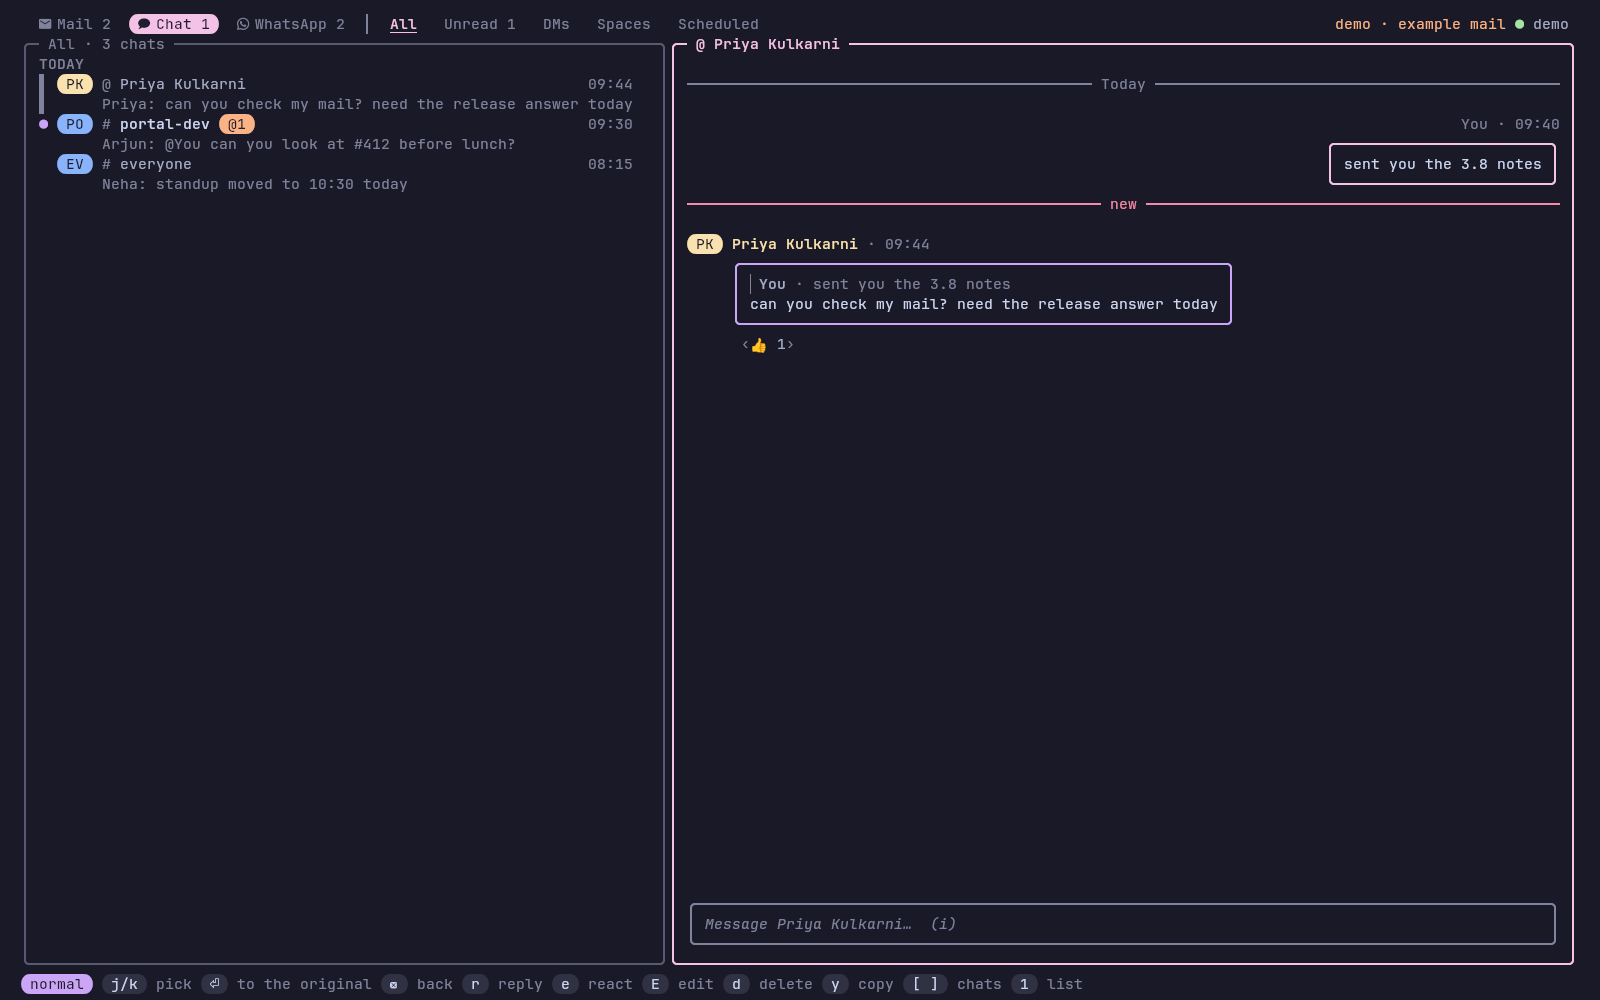
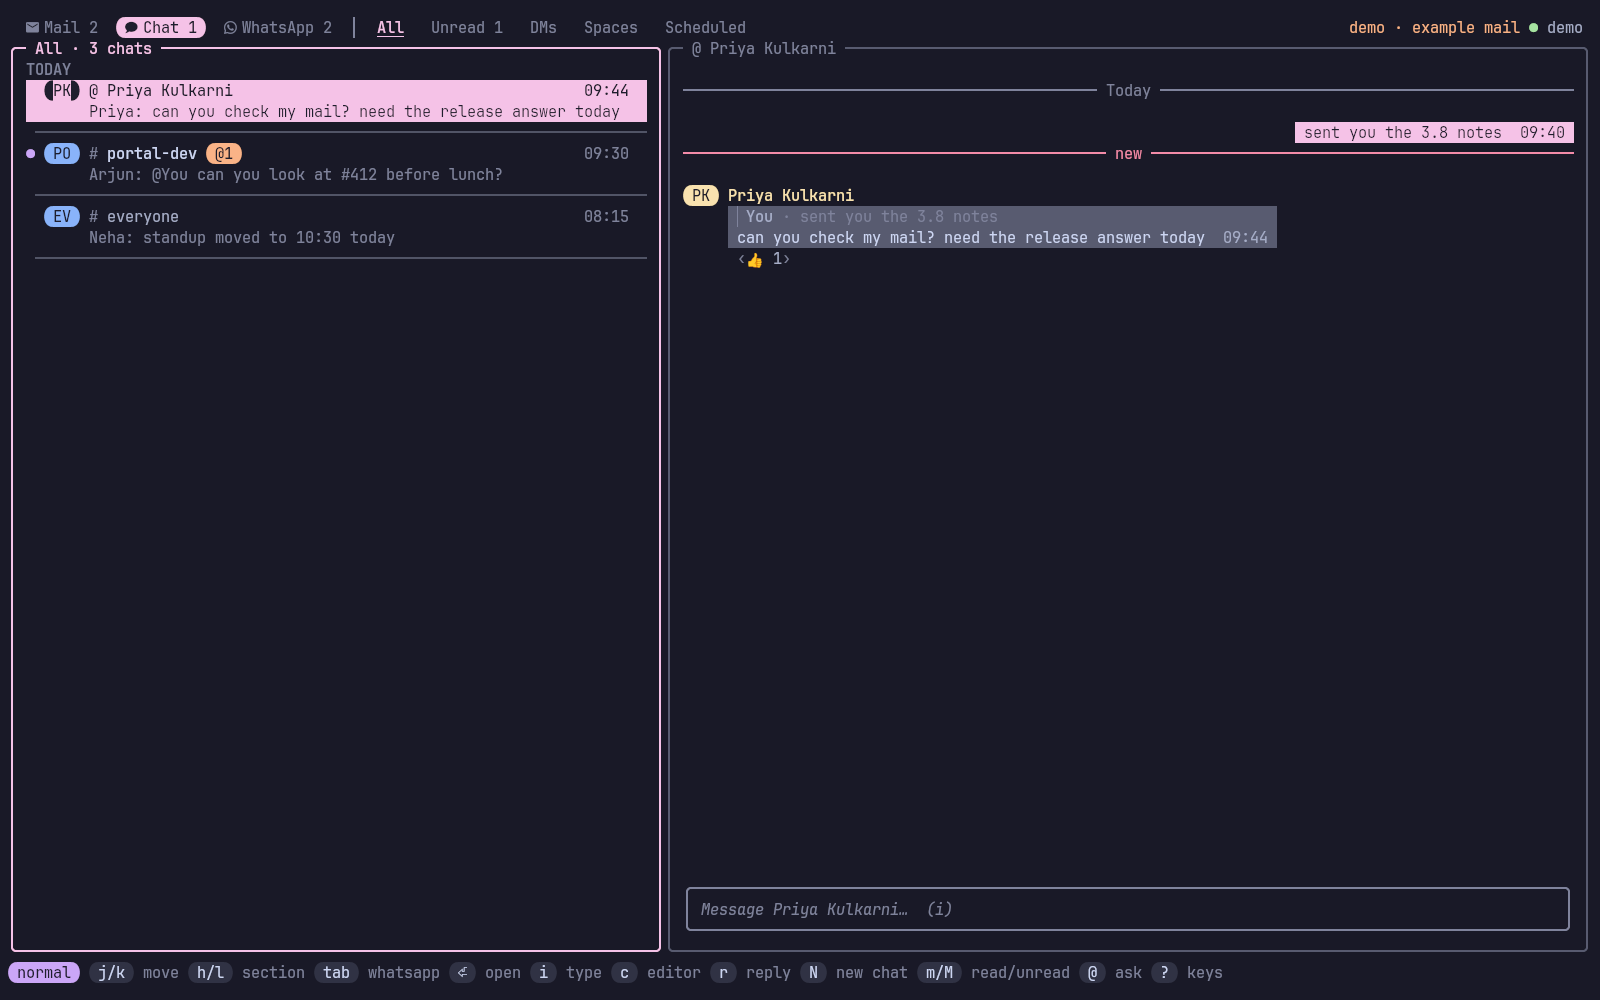
Release v0.4.0: filled bubbles, one-panel lists, folded threads, clearer approvals

Changed region(s): [[0.0, 0.0, 1.0, 1.0], [0.4688, 0.341, 0.5, 0.372]]

diff --git a/docs/changelog.html b/docs/changelog.html
@@ -19,8 +19,8 @@
 <a class="brand" href="index.html"><img src="assets/logo.svg" alt=""><span>sandesh <small>संदेश</small></span></a>
 <nav><a href="index.html" class="">Overview</a><a href="changelog.html" class="on">Changelog</a><a href="adr/index.html" class=" hide">Decisions</a><a class="gh" href="https://github.com/Theyashsawarkar/sandesh">GitHub ↗</a></nav></div></header>
 
-<div class="wrap"><aside class="toc"><b>On this page</b><a class="l2" href="#unreleased">Unreleased</a><a class="l2" href="#v030">v0.3.0</a><a class="l2" href="#v020">v0.2.0</a><a class="l2" href="#v010">v0.1.0</a></aside><article>
-<h2>Changelog</h2><p>Every change to sandesh, newest first. Releases are git tags (<a href="https://github.com/Theyashsawarkar/sandesh/tags">all tags</a>, <a href="https://github.com/Theyashsawarkar/sandesh/releases">GitHub releases</a>); the source of this page is <a href="https://github.com/Theyashsawarkar/sandesh/blob/main/CHANGELOG.md">CHANGELOG.md</a>.</p><section class="release"><h2 id="unreleased">Unreleased<span class="date"></span></h2><ul><li><strong>Filled bubbles</strong>: chat and WhatsApp messages are filled blocks, yours in the accent colour, with the time and ticks inside; one name per run.</li><li><strong>One panel for the lists</strong>: mail, chat and WhatsApp rows divided by hairlines, the picked one filled in the tab's colour (<code>list_style</code>, replacing <code>chat_list</code>; <code>chat_list = &quot;cards&quot;</code> still works).</li><li><strong>Mail threads fold</strong>: read messages to one line, a long run to one line in all.</li><li><strong>One frame for the message box</strong>: the reply and the files go inside it.</li><li><strong>A clearer approval</strong>: "Claude Code wants to send a mail to …", the reason as a badge, the agent's own <code>why</code> (new on <code>mail_send</code>, <code>chat_send</code> and <code>whatsapp_send</code>) and <code>y send in 10s</code>.</li></ul></section><section class="release"><h2 id="v030">v0.3.0<span class="date">2026-11-02</span><a class="tag" href="https://github.com/Theyashsawarkar/sandesh/releases/tag/v0.3.0">release ↗</a></h2><ul><li><strong>Screenshots</strong> in the README and on the website (from <code>sandesh demo</code>).</li><li><strong>Ticks</strong>: ✓ sent, ✓✓ delivered and blue ✓✓ read beside your WhatsApp messages, from the phone's receipts and its history.</li><li><strong>Paste a screenshot</strong>: <code>Ctrl+v</code> while typing attaches a copied image; files about to go show as small previews above the box.</li><li><strong>Pictures full size</strong>: <code>Space</code> (or <code>Enter</code>) on a picked photo or GIF fills the screen; <code>h</code>/<code>l</code> go through the chat's pictures.</li><li><strong>Compact chat list</strong>: two rows per chat instead of a box, so about twice as many fit; <code>chat_list = &quot;cards&quot;</code> brings the boxes back.</li><li><strong>The undo window where you look</strong>: a message counting down to send, or waiting for approval, shows under the conversation; <code>z</code> cancels the open chat's own first.</li><li><strong>Clearer</strong>: the unread count sits on Unread, not All; the list title says "chats"; a one-to-one chat shows the number, not "You, Amma · 2 people"; the hint under the message box, which repeated the key bar, is gone.</li></ul>
+<div class="wrap"><aside class="toc"><b>On this page</b><a class="l2" href="#v040">v0.4.0</a><a class="l2" href="#v030">v0.3.0</a><a class="l2" href="#v020">v0.2.0</a><a class="l2" href="#v010">v0.1.0</a></aside><article>
+<h2>Changelog</h2><p>Every change to sandesh, newest first. Releases are git tags (<a href="https://github.com/Theyashsawarkar/sandesh/tags">all tags</a>, <a href="https://github.com/Theyashsawarkar/sandesh/releases">GitHub releases</a>); the source of this page is <a href="https://github.com/Theyashsawarkar/sandesh/blob/main/CHANGELOG.md">CHANGELOG.md</a>.</p><section class="release"><h2 id="v040">v0.4.0<span class="date">2026-11-02</span><a class="tag" href="https://github.com/Theyashsawarkar/sandesh/releases/tag/v0.4.0">release ↗</a></h2><ul><li><strong>Filled bubbles</strong>: chat and WhatsApp messages are filled blocks, yours in the accent colour, with the time and ticks inside; one name per run.</li><li><strong>One panel for the lists</strong>: mail, chat and WhatsApp rows divided by hairlines, the picked one filled in the tab's colour (<code>list_style</code>, replacing <code>chat_list</code>; <code>chat_list = &quot;cards&quot;</code> still works).</li><li><strong>Mail threads fold</strong>: read messages to one line, a long run to one line in all.</li><li><strong>One frame for the message box</strong>: the reply and the files go inside it.</li><li><strong>A clearer approval</strong>: "Claude Code wants to send a mail to …", the reason as a badge, the agent's own <code>why</code> (new on <code>mail_send</code>, <code>chat_send</code> and <code>whatsapp_send</code>) and <code>y send in 10s</code>.</li></ul></section><section class="release"><h2 id="v030">v0.3.0<span class="date">2026-11-02</span><a class="tag" href="https://github.com/Theyashsawarkar/sandesh/releases/tag/v0.3.0">release ↗</a></h2><ul><li><strong>Screenshots</strong> in the README and on the website (from <code>sandesh demo</code>).</li><li><strong>Ticks</strong>: ✓ sent, ✓✓ delivered and blue ✓✓ read beside your WhatsApp messages, from the phone's receipts and its history.</li><li><strong>Paste a screenshot</strong>: <code>Ctrl+v</code> while typing attaches a copied image; files about to go show as small previews above the box.</li><li><strong>Pictures full size</strong>: <code>Space</code> (or <code>Enter</code>) on a picked photo or GIF fills the screen; <code>h</code>/<code>l</code> go through the chat's pictures.</li><li><strong>Compact chat list</strong>: two rows per chat instead of a box, so about twice as many fit; <code>chat_list = &quot;cards&quot;</code> brings the boxes back.</li><li><strong>The undo window where you look</strong>: a message counting down to send, or waiting for approval, shows under the conversation; <code>z</code> cancels the open chat's own first.</li><li><strong>Clearer</strong>: the unread count sits on Unread, not All; the list title says "chats"; a one-to-one chat shows the number, not "You, Amma · 2 people"; the hint under the message box, which repeated the key bar, is gone.</li></ul>
 <ul><li><strong>Photos, GIFs and files on WhatsApp</strong>: they show in the conversation (on kitty as real pictures, in tmux popups too, and GIFs play; elsewhere as coloured blocks; the <code>images</code> option chooses), and <code>Ctrl+o</code> while typing or <code>U</code> sends them, with the text as the first file's caption.</li><li><strong>Link WhatsApp from its tab</strong>: <code>L</code> shows the QR code, <code>P</code> a phone code, and a bar follows the sync, with no separate terminal.</li><li><strong><code>send_policy = &quot;trust&quot;</code> and <code>ask_first</code></strong>: agents send without asking unless you told them to ask, after an undo window with a notification that can cancel it (ADR 6). The approval screen is redesigned.</li><li><strong>The chat box grows</strong>: long messages wrap and the box gets taller, and Enter sends and keeps you typing. The active tab is a filled pill in its own colour.</li><li><strong>Fixed</strong>: WhatsApp names and mentions showing as numbers; <code>@</code> and the AI keys not finding <code>claude</code> or <code>sandesh</code> from a tmux popup.</li></ul>
 <ul><li><strong>WhatsApp</strong>: <code>sandesh whatsapp link</code> links your WhatsApp as a device (QR code, or <code>--phone</code> for a code to type on the phone), and its chats become a third tab (<code>Tab</code>: Mail → Chat → WhatsApp) with unread counts in <code>sandesh status</code> and the tmux segment, notifications, read receipts and quoted replies. <code>sandesh whatsapp list|read|send|unlink</code> on the command line, <code>whatsapp_chats</code>, <code>whatsapp_read</code> and <code>whatsapp_send</code> for agents. Every send goes through the outbox; an agent's always waits for you, and WhatsApp sends are capped at <code>whatsapp_per_hour</code> (30). Without linking, <code>whatsapp send</code> opens WhatsApp's click-to-chat page with the text typed in instead. Linking isn't allowed by WhatsApp's terms (see the README's WhatsApp section and ADR 5).</li></ul>
 <ul><li><strong>HTML mail, for tables and the like</strong>: <code>mail_send</code> and <code>mail_draft</code> take an optional <code>html</code> (and <code>sandesh mail send</code> an <code>--html FILE</code>). It goes out beside the plain text as <code>multipart/alternative</code>, so mail apps show the HTML and the plain text is still there for those that don't; a reply quotes the thread in the HTML too. Plain text alone can't make a table Gmail shows as one.</li></ul></section><section class="release"><h2 id="v020">v0.2.0<span class="date">2026-10-28</span><a class="tag" href="https://github.com/Theyashsawarkar/sandesh/releases/tag/v0.2.0">release ↗</a></h2><ul><li><strong><code>--tab chat</code></strong>: <code>sandesh --tab chat</code> (and <code>sandesh --popup --tab chat</code>) opens the screen on the chat tab, so a status bar's chat count can open chat and its mail count mail.</li></ul>

diff --git a/docs/index.html b/docs/index.html
@@ -24,8 +24,8 @@
 <div class="sa">संदेश <span>· “message”</span></div>
 <p class="lead">Gmail and Google Chat without leaving the terminal, with an agent that can read, draft and send for you.</p>
 <div class="cta"><a class="btn primary" href="#install">Install</a><a class="btn" href="https://github.com/Theyashsawarkar/sandesh">GitHub ↗</a>
-<a class="btn" href="changelog.html">What's new in v0.3.0</a></div>
-<div class="meta"><span><b>v0.3.0</b> latest</span><span><b>3</b> releases</span><span><b>6</b> decisions recorded</span><span><b>MIT</b> license</span></div>
+<a class="btn" href="changelog.html">What's new in v0.4.0</a></div>
+<div class="meta"><span><b>v0.4.0</b> latest</span><span><b>4</b> releases</span><span><b>6</b> decisions recorded</span><span><b>MIT</b> license</span></div>
 </div><img class="logo" src="assets/logo.svg" alt="sandesh logo"></div></section>
 <div class="wrap"><aside class="toc"><b>On this page</b><a class="l2" href="#features">Features</a><a class="l2" href="#install">Install</a><a class="l2" href="#getting-started">Getting started</a><a class="l2" href="#the-screen">The screen</a><a class="l2" href="#keys">Keys</a><a class="l2" href="#sending-later">Sending later</a><a class="l2" href="#sent-mail">Sent mail</a><a class="l2" href="#older-mail">Older mail</a><a class="l2" href="#files">Files</a><a class="l2" href="#whatsapp">WhatsApp</a><a class="l2" href="#claude-and-other-agents">Claude and other agents</a><a class="l2" href="#sending-safely">Sending safely</a><a class="l2" href="#command-line">Command line</a><a class="l2" href="#using-it-inside-tmux">Using it inside tmux</a><a class="l2" href="#configuration">Configuration</a><a class="l2" href="#files-and-environment">Files and environment</a><a class="l2" href="#how-it-works">How it works</a><a class="l2" href="#troubleshooting">Troubleshooting</a><a class="l2" href="#contributing">Contributing</a><a class="l2" href="#roadmap">Roadmap</a><a class="l2" href="#license">License</a></aside><article>
 <p align="center">
@@ -63,8 +63,8 @@ sandesh doctor                         # checks all of it</code></pre>
 <p><code>sandesh</code> opens the screen.</p>
 <h2 id="the-screen"><a class="anchor" href="#the-screen">#</a>The screen</h2>
 <p align="center">
-  <img alt="A Google Chat conversation: your messages on the right, theirs on the left with a quoted reply and a reaction, and the message box at the bottom" src="assets/screenshots/chat.png" width="49%">
-  <img alt="The WhatsApp tab: the compact chat list, a photo shown inside the conversation, and blue read ticks on your message" src="assets/screenshots/whatsapp.png" width="49%">
+  <img alt="A Google Chat conversation in filled bubbles: yours on the right in the accent colour, theirs on the left with a quoted reply, a reaction and the time inside" src="assets/screenshots/chat.png" width="49%">
+  <img alt="The WhatsApp tab: the chat list on one panel with the picked chat filled green, filled message bubbles with a photo inside, and read ticks on your message" src="assets/screenshots/whatsapp.png" width="49%">
 </p>
 <p align="center"><sub>All screenshots use <code>sandesh demo</code>: made-up mail, chats and people.</sub></p>
 <p>Sections on top, the list on the left, the selected thread or space on the right, keys at the bottom.</p>

diff --git a/internal/tui/cards.go b/internal/tui/cards.go
@@ -258,7 +258,7 @@ func (m Model) tickText(level int) string {
 // colours. read colours your ticks blue, as on the phone.
 func (m Model) fillBubble(lines []string, raw map[int]bool, maxW int, mine, sel bool, stamp string, read bool) []string {
 	s := m.styles
-	bg, fgc := s.c.Surface, s.c.Text
+	bg, fgc := s.c.Border, s.c.Text // the surface colour is too close to the background
 	if mine {
 		bg, fgc = s.c.Accent2, s.c.Base
 	}
@@ -277,9 +277,9 @@ func (m Model) fillBubble(lines []string, raw map[int]bool, maxW int, mine, sel 
 	iw = min(iw, maxW-2)
 	on := lipgloss.NewStyle().Background(lipgloss.Color(bg))
 	text := on.Foreground(lipgloss.Color(fgc))
-	dim := on.Foreground(lipgloss.Color(fgc)).Faint(true)
+	dim := on.Foreground(lipgloss.Color(fgc)) // on the accent: the dark text colour reads best
 	if !mine && !sel {
-		dim = on.Foreground(lipgloss.Color(s.c.Muted))
+		dim = on.Foreground(lipgloss.Color(s.c.Subtle))
 	}
 	tickStyle := dim
 	if read {

diff --git a/internal/app/app.go b/internal/app/app.go
@@ -20,7 +20,7 @@ import (
 	"github.com/Theyashsawarkar/sandesh/internal/store"
 )
 
-const Version = "0.3.0"
+const Version = "0.4.0"
 
 type App struct {
 	Paths  config.Paths

diff --git a/README.md b/README.md
@@ -173,8 +173,8 @@ sandesh doctor                         # checks all of it
 ## The screen
 
 <p align="center">
-  <img alt="A Google Chat conversation: your messages on the right, theirs on the left with a quoted reply and a reaction, and the message box at the bottom" src="assets/screenshots/chat.png" width="49%">
-  <img alt="The WhatsApp tab: the compact chat list, a photo shown inside the conversation, and blue read ticks on your message" src="assets/screenshots/whatsapp.png" width="49%">
+  <img alt="A Google Chat conversation in filled bubbles: yours on the right in the accent colour, theirs on the left with a quoted reply, a reaction and the time inside" src="assets/screenshots/chat.png" width="49%">
+  <img alt="The WhatsApp tab: the chat list on one panel with the picked chat filled green, filled message bubbles with a photo inside, and read ticks on your message" src="assets/screenshots/whatsapp.png" width="49%">
 </p>
 <p align="center"><sub>All screenshots use <code>sandesh demo</code>: made-up mail, chats and people.</sub></p>
 

diff --git a/CHANGELOG.md b/CHANGELOG.md
@@ -2,7 +2,7 @@
 
 Newest first.
 
-## Unreleased
+## v0.4.0 -- 2026-11-02
 
 - **Filled bubbles**: chat and WhatsApp messages are filled blocks, yours
   in the accent colour, with the time and ticks inside; one name per run.
